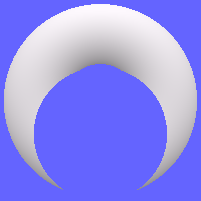
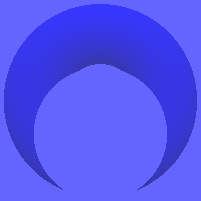
adding transparency

diff --git a/rayon.py b/rayon.py
@@ -56,9 +56,13 @@ class Camera( object):
         return e.topolent()
 
 class Prim(Obj):
-    def __init__(self, fonc_xyz, color):
+    def __init__(self, fonc_xyz, color,transparency):
         self.fonc=fonc_xyz
         self.color=color
+        if transparency == None : 
+            self.transparency = 0
+        else : 
+            self.transparency = int(transparency)
 
     def intersection(self, rayon):
         dico = { "x": Nb(rayon.source[0]) + Nb(rayon.dir[0])*Var("t"),
@@ -86,11 +90,12 @@ def clamp(mi, ma, v):
     return min(ma, max( mi, v))
 
 def raycasting(cam, objet):
-    img=Image.new("RGB", (2*cam.hsizewin+1, 2*cam.hsizewin+1), (255,255,255))
+    img=Image.new("RGBA", (2*cam.hsizewin+1, 2*cam.hsizewin+1), (255,255,255,255))
     for xpix in range(-cam.hsizewin, cam.hsizewin+1, 1):
         for zpix in range(-cam.hsizewin, cam.hsizewin+1, 1):
             rayon= cam.generate_ray(xpix, zpix)
             roots=objet.intersection(rayon)
+            transparency = 255
             if None==roots:
                 (r,v,b)= cam.background
             else:
@@ -99,6 +104,7 @@ def raycasting(cam, objet):
                 rayon.source[1]+ t*rayon.dir[1],
                 rayon.source[2]+ t*rayon.dir[2])
                 (a,b,c)=normalize3(objet.normale(pt))
+                transparency = objet.transparency
                 (rr,vv,bb)=objet.color
                 (rr,vv,bb)= (float(rr), float(vv), float(bb))
                 ps=pscal3((a,b,c), cam.soleil)
@@ -113,7 +119,7 @@ def raycasting(cam, objet):
             img.putpixel(
             (xpix+cam.hsizewin,
             2*cam.hsizewin-(zpix+cam.hsizewin)),
-            (r,v,b))
+            (r,v,b,transparency))
     img.show()
     img.save( cam.nom)
 
@@ -123,19 +129,16 @@ regard= (0.,1.,0.)
 vertical=(0.,0.,1.)
 #le repere local est tel que regard=oy, vertical=oz, droite=ox, o=oeil
 
-intersection = 'intersection'
-union = 'union'
-diff = 'difference'
-
 def raycastingIntersection(cam,object0,object1):
     if(object0==None or object1==None):
         print("raycasting erreur : un paramètre est null")
     else:  
-        img=Image.new("RGB", (2*cam.hsizewin+1, 2*cam.hsizewin+1), (255,255,255))
+        img=Image.new("RGBA", (2*cam.hsizewin+1, 2*cam.hsizewin+1), (255,255,255,255))
         for xpix in range(-cam.hsizewin, cam.hsizewin+1, 1):
             for zpix in range(-cam.hsizewin, cam.hsizewin+1, 1):
                 rayon= cam.generate_ray( xpix, zpix)
                 roots_obj0 = object0.intersection(rayon)
+                transparency = 255
                 if roots_obj0==None:
                     (r,v,b)= cam.background
                 else:
@@ -153,6 +156,7 @@ def raycastingIntersection(cam,object0,object1):
                         (rr1,vv1,bb1)=object1.color
                         (rr1,vv1,bb1)= (float(rr1), float(vv1), float(bb1))
                         (rr,vv,bb)= ((rr0+rr1)/2, (vv0+vv1)/2, (bb0+bb1)/2)
+                        transparency = int((object0.transparency + object1.transparency)/2)
                         ps=pscal3((a,b,c), cam.soleil)
                         if ps < -1. or 1 < ps:
                             print("PS="+str(ps))
@@ -165,7 +169,7 @@ def raycastingIntersection(cam,object0,object1):
                 img.putpixel(
                 (xpix+cam.hsizewin,
                 2*cam.hsizewin-(zpix+cam.hsizewin)),
-                (r,v,b))
+                (r,v,b,transparency))
         img.show()
         img.save( cam.nom)
 
@@ -173,11 +177,12 @@ def raycastingDifference(cam,object0,object1):
     if(object0==None or object1==None):
         print("raycasting erreur : un paramètre est null")
     else:  
-        img=Image.new("RGB", (2*cam.hsizewin+1, 2*cam.hsizewin+1), (255,255,255))
+        img=Image.new("RGBA", (2*cam.hsizewin+1, 2*cam.hsizewin+1), (255,255,255,255))
         for xpix in range(-cam.hsizewin, cam.hsizewin+1, 1):
             for zpix in range(-cam.hsizewin, cam.hsizewin+1, 1):
                 rayon= cam.generate_ray( xpix, zpix)
                 roots_obj0 = object0.intersection(rayon)
+                transparency = 255
                 if roots_obj0==None:
                     (r,v,b)= cam.background
                 else:
@@ -192,6 +197,7 @@ def raycastingDifference(cam,object0,object1):
                         (a,b,c)=normalize3(object0.normale(pt))
                         (rr,vv,bb)=object0.color
                         (rr,vv,bb)= (float(rr), float(vv), float(bb))
+                        transparency = object0.transparency
                         ps=pscal3((a,b,c), cam.soleil)
                         if ps < -1. or 1 < ps:
                             print("PS="+str(ps))
@@ -204,7 +210,7 @@ def raycastingDifference(cam,object0,object1):
                 img.putpixel(
                 (xpix+cam.hsizewin,
                 2*cam.hsizewin-(zpix+cam.hsizewin)),
-                (r,v,b))
+                (r,v,b,transparency))
         img.show()
         img.save( cam.nom)
 
@@ -212,12 +218,13 @@ def raycastingUnion(cam,object0,object1):
     if(object0==None or object1==None):
         print("raycasting erreur : un paramètre est null")
     else:  
-        img=Image.new("RGB", (2*cam.hsizewin+1, 2*cam.hsizewin+1), (255,255,255))
+        img=Image.new("RGBA", (2*cam.hsizewin+1, 2*cam.hsizewin+1), (255,255,255))
         for xpix in range(-cam.hsizewin, cam.hsizewin+1, 1):
             for zpix in range(-cam.hsizewin, cam.hsizewin+1, 1):
                 rayon= cam.generate_ray( xpix, zpix)
                 roots_obj0 = object0.intersection(rayon)
                 roots_obj1 = object1.intersection(rayon)
+                transparency = 255
                 if roots_obj0==None and roots_obj1==None:
                     (r,v,b)= cam.background
                 else:
@@ -226,11 +233,13 @@ def raycastingUnion(cam,object0,object1):
                     if roots_obj0!=None and roots_obj1 == None:
                         (rr,vv,bb)=object0.color
                         (rr,vv,bb)= (float(rr), float(vv), float(bb))
+                        transparency = object0.transparency
                         objectToWorkWith = object0
                         t = hd(roots_obj0)
                     elif roots_obj1!=None and roots_obj0 == None:
                         (rr,vv,bb)=object1.color
                         (rr,vv,bb)= (float(rr), float(vv), float(bb))      
+                        transparency = object1.transparency
                         objectToWorkWith = object1          
                         t = hd(roots_obj1)
                     else:
@@ -239,6 +248,7 @@ def raycastingUnion(cam,object0,object1):
                         (rr1,vv1,bb1)=object1.color
                         (rr1,vv1,bb1)= (float(rr1), float(vv1), float(bb1))
                         (rr,vv,bb)= ((rr0+rr1)/2, (vv0+vv1)/2, (bb0+bb1)/2)
+                        transparency = int((object0.transparency + object1.transparency)/2)
                         objectToWorkWith = object0
                         t = hd(roots_obj0)
                     pt=(xo,yo,zo)= (rayon.source[0]+ t*rayon.dir[0],
@@ -257,7 +267,7 @@ def raycastingUnion(cam,object0,object1):
                 img.putpixel(
                 (xpix+cam.hsizewin,
                 2*cam.hsizewin-(zpix+cam.hsizewin)),
-                (r,v,b))
+                (r,v,b,transparency))
         img.show()
         img.save( cam.nom)
         
@@ -308,11 +318,17 @@ def roman():
 
 
 
-tore = Prim(tore(0.45, 1.), ((0,0, 255)))
-boule = Prim(boule( (0., 2., -0.5), 1.), (255,0, 0))
+tore = Prim(tore(0.45, 1.), (0,0, 255),200)
+boule = Prim(boule( (0., 2., -0.5), 1.), (255,0, 0), 150)
 
 camera.nom="union.png"
 raycastingUnion(camera,tore,boule)
+
+camera.nom="intersection.png"
+raycastingIntersection(camera,tore,boule)
+
+camera.nom="difference.png"
+raycastingDifference(camera,tore,boule)
 
 '''
 camera.nom="boule.png"
